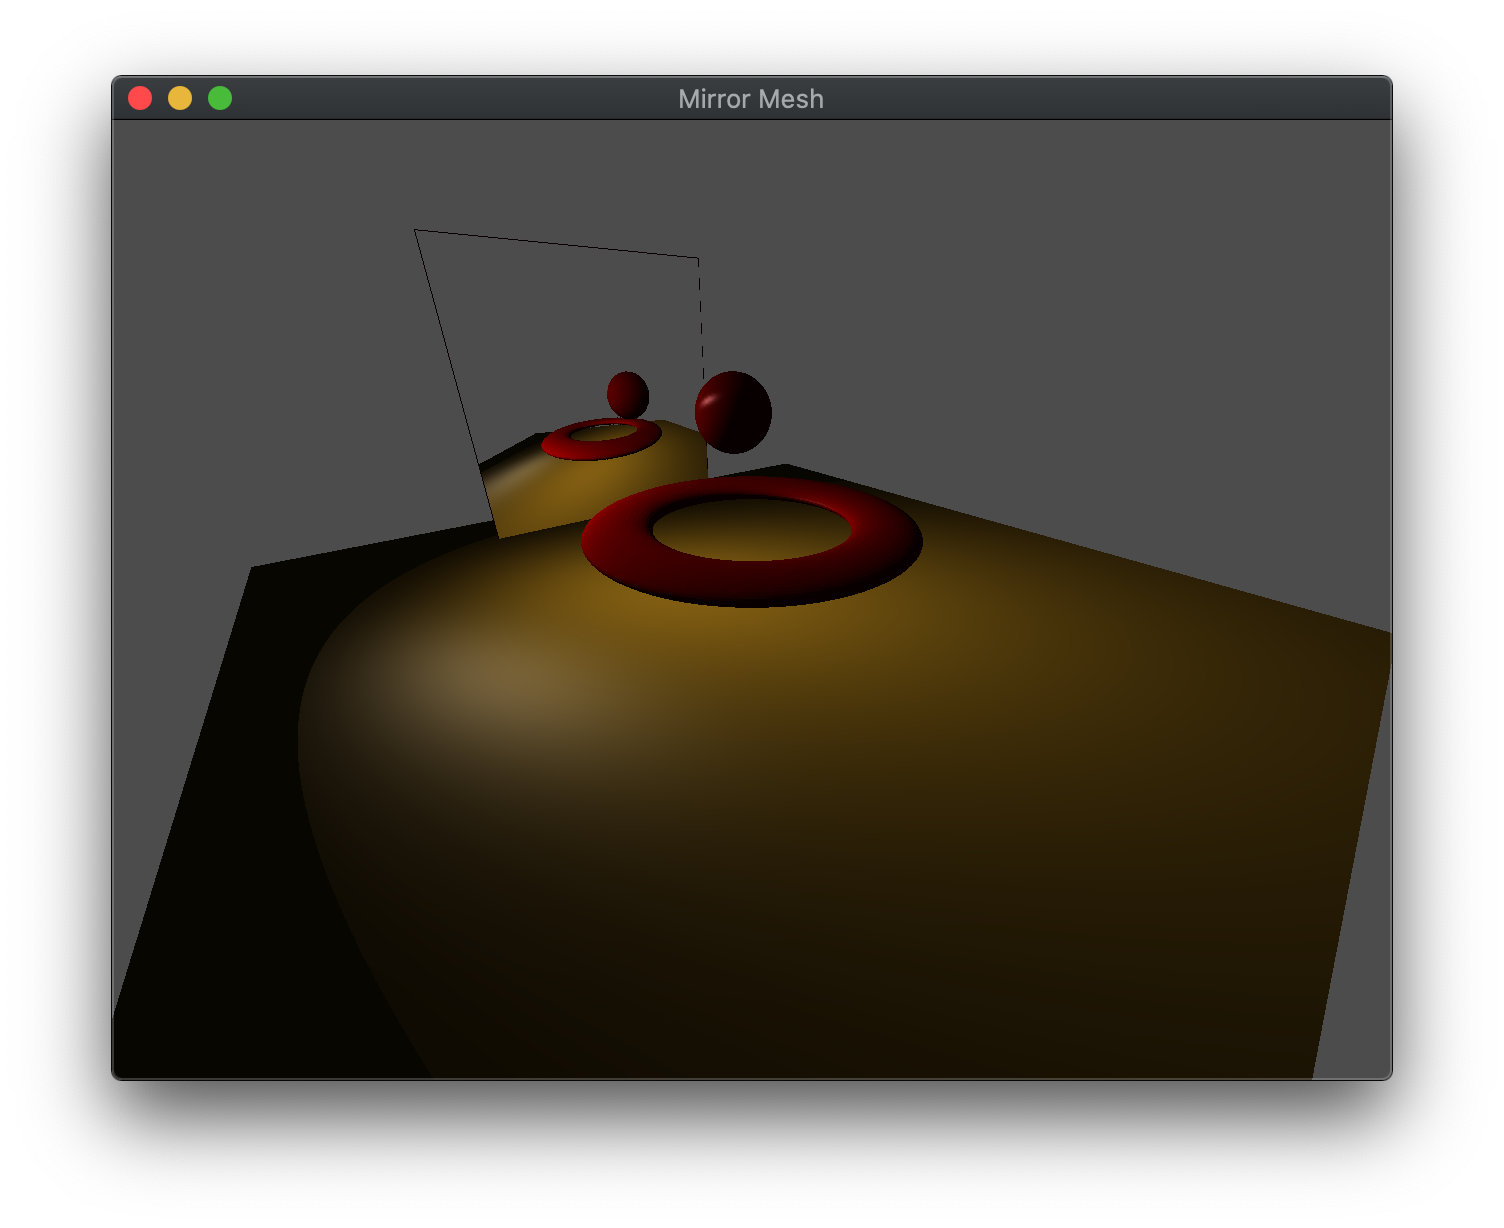
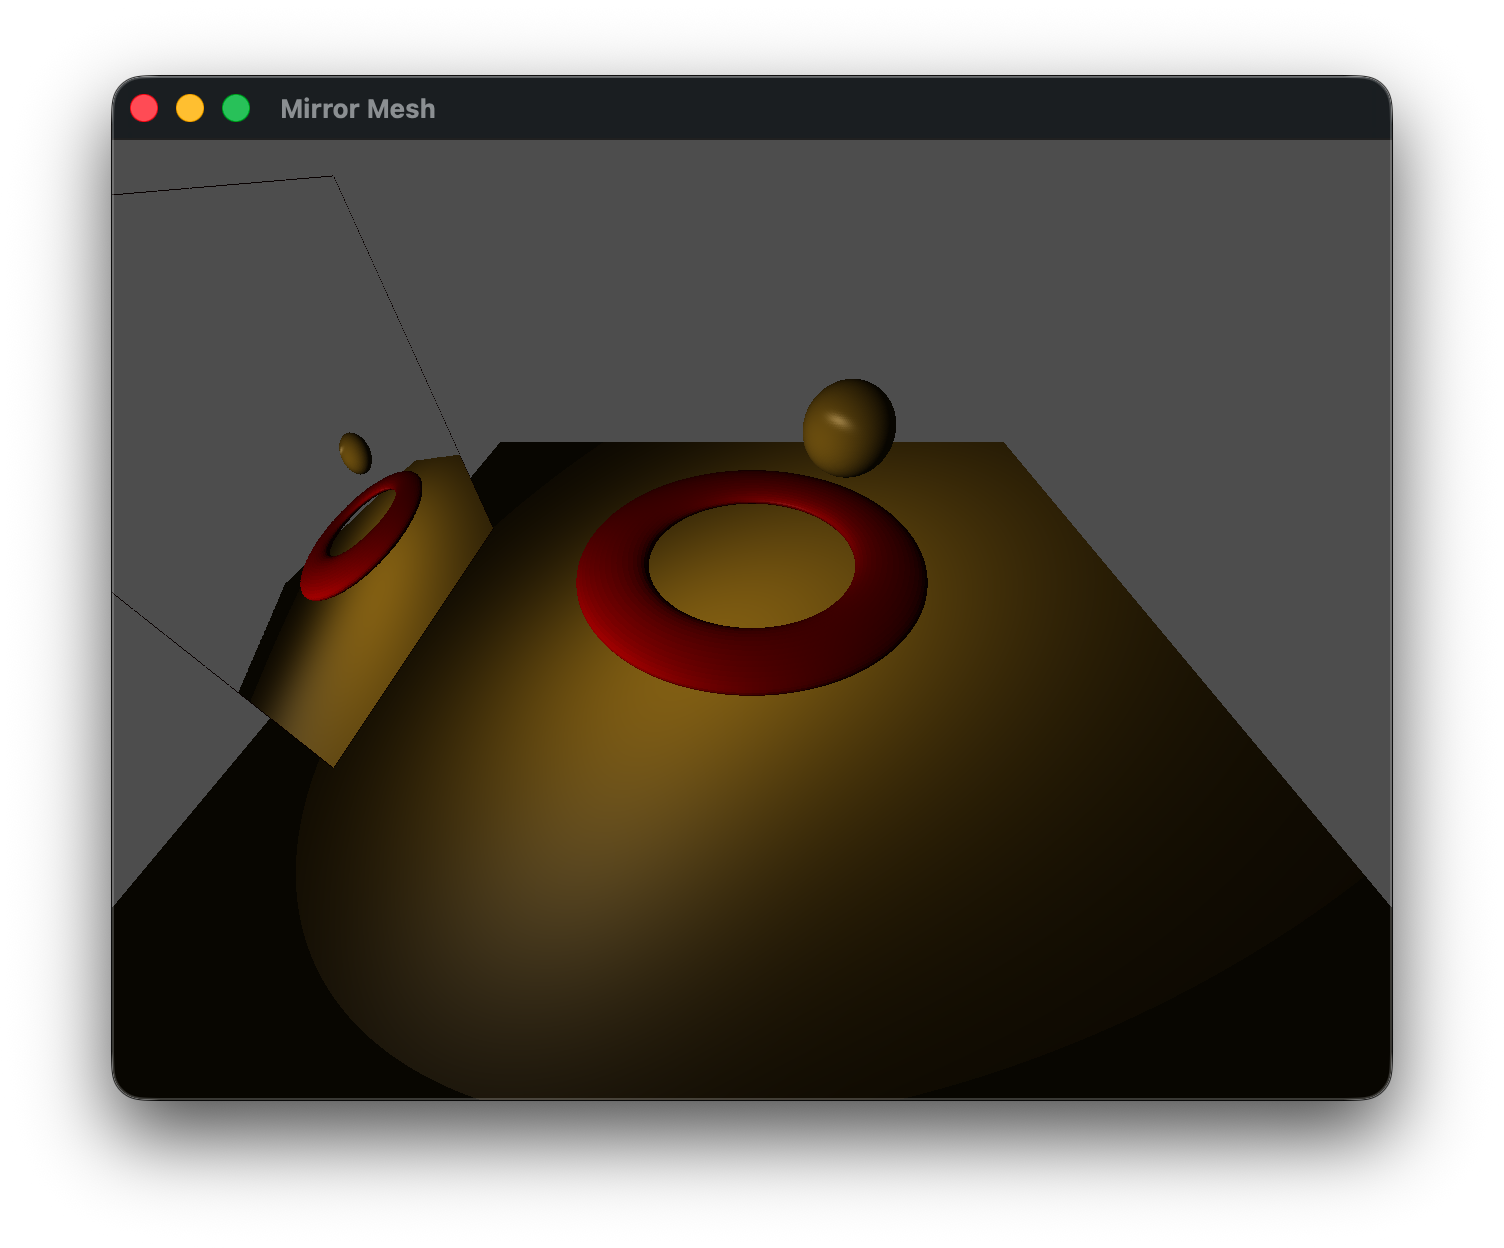
add lab16
add lab16

Changed region(s): [[0.0625, 0.2785, 0.9375, 0.8974], [0.0625, 0.0619, 0.9375, 0.1238], [0.0625, 0.6498, 0.125, 0.8046]]

diff --git a/labs/lab16.md b/labs/lab16.md
@@ -41,17 +41,19 @@ In order to store the image of the scene from the perspective of the mirror, we 
 
 ### Tasks
 
-- Add code in **mirror.cpp** to **build\_mirror\_tex()** to creates an empty mirror texture for the environment map (which is allocated and bound for the *m\_texid* parameter that is passed as *MirrorTex*) that is *ww* by *hh* using **glTexImage2D()**
+- Add code in **textures.h** to **build\_mirror()** to allocate an empty texture for the environment map that is *ww* by *hh* using **glTexImage2D()**
 
 ```cpp
     glTexImage2D(GL_TEXTURE_2D, 0, GL_RGBA, ww, hh, 0, GL_RGBA, GL_FLOAT, NULL);
 ```
 
-**Note:** When creating this texture, we did not build mipmaps as we will be loading the texture map dynamically each time we render the scene (thus it would be computationally expensive to continually regenerate mipmaps).
+> **Note:** When setting the filters for this texture, we did not build mipmaps as we will be loading the texture map dynamically each time we render the scene (thus it would be computationally expensive to continually regenerate mipmaps).
+
+- Add code in **textures.h** to **build\_textures()** to create the mirror texture using **build\_mirror()** passing the *MirrorTex* enum constant.
 
 ### Setting the mirror perspective
 
-We will create the effect of reflection by rendering the scene from the *point of view of the reflective object* and copy that image into the environment map. Therefore, the first thing we must do in the **render\_mirror\_tex( )** function is set an appropriate projection matrix using either **ortho( )** or **frustum( )**. The key here is to select extents that are representative of the reflective surface, i.e. usually with the near clipping plane at (or very near for a frustum) 0.0 which will be the object's surface, the far clipping plane set to capture the objects of interest, and the other extents to match the geometry of the object itself. Next we need to position the camera at the *center of the object* and point it *away from* the reflective surface. Depending on the desired effect, this direction can be either perpendicular to the surface or (more realistically) at an equal angle from the viewer (recall angle of incidence equals angle of reflection), see [How to calculate the reflection vector](https://www.fabrizioduroni.it/2017/08/25/how-to-calculate-reflection-vector/) for the math to compute this. Once the projection matrix and camera position are set appropriately, we simply render the scene *without* the reflective surface. This will create the "picture" of the scene from the point of view of the reflective surface in the framebuffer. However instead of using **glfwSwapBuffers( )** to display it on the screen, we will place the image *into a texture* using
+We will create the effect of reflection by rendering the scene from the *point of view of the reflective object* and copy that image into the environment map. Therefore, the first thing we must do in the **create\_mirror( )** function is set an appropriate projection matrix using either **ortho( )** or **frustum( )**. The key here is to select extents that are representative of the reflective surface, i.e. usually with the near clipping plane at (or very near for a frustum) 0.0 which will be the object's surface, the far clipping plane set to capture the objects of interest, and the other extents to match the geometry of the object itself. Next we need to position the camera at the *center of the mirror* and point it *away from* the reflective surface. Depending on the desired effect, this direction can be either perpendicular to the surface or (more realistically) at an equal angle from the viewer (recall angle of incidence equals angle of reflection), see [How to calculate the reflection vector](https://www.fabrizioduroni.it/2017/08/25/how-to-calculate-reflection-vector/) for the math to compute this. Once the projection matrix and camera position are set appropriately, we simply render the scene *without* the reflective surface. This will create the "picture" of the scene from the point of view of the reflective surface in the framebuffer. However instead of using **glfwSwapBuffers( )** to display it on the screen, we will *copy* the image *into a texture* using
 
 ```cpp
 glCopyTexImage2D(GL_TEXTURE_2D, level, format, x, y, w, h, border);
@@ -59,25 +61,25 @@ glCopyTexImage2D(GL_TEXTURE_2D, level, format, x, y, w, h, border);
 
 where *level* indicates the mipmap level to store the image into (which we will use level 0 for the environment map), *format* is the format to store the image in (usually **GL\_RGBA**), *x* and *y* are the initial lower-left *raster coordinates* of the framebuffer, *w* and *h* are the width and height of the image to capture, and *border* specifies a border width for the image.
 
-**Note:** **glCopyTexImage2D( )** copies the framebuffer into the *currently selected* texture map, so be careful to avoid overwritting a pre-existing object texture.
+**Note:** **glCopyTexImage2D( )** copies the framebuffer into the *currently selected* texture map, so be careful that the environment map texture is bound to avoid overwritting a pre-existing object texture.
 
-Also since the environment takes the image from the framebuffer, any effects used in rendering the scene, e.g. lighting and texture mapping, will appear in the reflection.
+Since the environment takes the image directly from the framebuffer, any effects used in rendering the scene, e.g. lighting and texture mapping, will appear in the reflection.
 
 ### Tasks
 
-- Add code in **mirror.cpp** to **render\_mirror\_tex( )** to set the *proj\_matrix* to a **frustum** with extents (-0.2,0.2,-0.2,0.2,0.2,100.0).
+- Add code in **mirrorMesh.cpp** to **create\_mirror( )** to set the *proj\_matrix* to a **frustum** with extents (-0.2,0.2,-0.2,0.2,0.2,100.0).
 
-- Add code in **mirror.cpp** to **render\_mirror\_tex( )** to set the *camera\_matrix* for the mirror camera position using **lookat** with *mirror_eye*, *mirror_center*, *mirror_up* as the vectors. **Note:** we will use *mirror_eye* as the translation transformation when we render the mirror.
+- Add code in **mirrorMesh.cpp** to **create\_mirror( )** to set the *camera\_matrix* for the mirror camera position using **lookat()** with *mirror_eye*, *mirror_center*, *mirror_up* as the vectors. **Note:** we will use *mirror_eye* as the translation transformation when we render the mirror.
 
-- Add code in **mirror.cpp** to **render\_mirror\_tex( )** after the scene has been rendered to activate **GL_TEXTURE0** using **glActiveTexture()**.
+- Add code in **mirrorMesh.cpp** to **create\_mirror( )** after the scene has been rendered to activate **GL_TEXTURE0** using **glActiveTexture()**.
 
-- Add code in **mirror.cpp** to **render\_mirror\_tex( )** to bind the *m\_texid* element of the *TextureIDs[]* array which will be the texture where the environment map is stored (i.e. the one created in the previous section).
+- Add code in **mirrorMesh.cpp** to **create\_mirror( )** to bind the *m_texid* element of the *TextureIDs[]* array which will be the texture where the environment map is stored (i.e. the one created in the previous section).
 
-- Add code in **mirror.cpp** to **render\_mirror\_tex( )** to copy the framebuffer to the bound environment map using **glCopyTexImage2D()** into level 0, using **GL_RGBA** format, starting at (0,0), of size (ww,hh), and with 0 border.
+- Add code in **mirrorMesh.cpp** to **create\_mirror( )** to copy the framebuffer to the bound environment map using **glCopyTexImage2D()** into level 0, using **GL_RGBA** format, starting at (0,0), of size (ww,hh), and with 0 border.
 
-- Add code to **main()** in the rendering loop to call **render\_mirror\_tex()** *before* rendering the actual scene with **display()**. Pass the *MirrorTex* index of the *TextureIDs[]* array which is the reference to the environment map.
+- Add code in **mirrorMesh.cpp** to **main()** in the rendering loop to call **create\_mirror()** *before* rendering the actual scene with **display()**. Pass the *MirrorTex* enum constant for the environment map.
 
-**Note:** To help with mirror positioning and extents, uncomment the **renderQuad()** function and comment out **display()** to render the environment map to the screen until it appears the way you would like.
+**Note:** To help with mirror positioning and extents, uncomment the **displayTex()** function and comment out **display()** to render the environment map to the screen (i.e. what will be textured onto the mirror) until it appears the way you would like.
 
 ## Rendering the Scene with Mirror
 
@@ -85,17 +87,17 @@ Once the map is created, we simply render the scene as usual (using **render\_sc
 
 ### Tasks
 
-- Add code in **render.cpp** to **render\_scene()** to compute *trans\_matrix* as a translation by *mirror\_eye*, i.e. place the mirror at the same spot that the mirror camera was located to generate the environment map. **Hint:** You can use the vector version of **translate()** rather than separate out the individual components.
+- Add code in **mirrorMesh.cpp** to **render\_scene()** to compute *trans\_matrix* as a translation by *mirror\_eye*, i.e. place the mirror at the same spot that the mirror camera was located to generate the environment map. **Hint:** You can use the vector version of **translate()** rather than separate out the individual components.
 
-- Add code in **render.cpp** to **render\_scene()** to compute *rot\_matrix* as a rotation by -90 degrees about the x-axis (so that the mirror is vertical in the scene).
+- Add code in **mirrorMesh.cpp** to **render\_scene()** to compute *rot\_matrix* as a rotation by -90 degrees about the x-axis (so that the mirror is vertical in the scene).
 
-- Add code in **render.cpp** to **render\_scene()** to compute *scale\_matrix* as a scaling by 2.0 along each axis.
+- Add code in **mirrorMesh.cpp** to **render\_scene()** to compute *scale\_matrix* as a scaling by 2.0 along the x and z axes (**note:** the y axis should be unchanged).
 
-- Add code in **render.cpp** to **render\_scene()** to compute *model\_matrix* as the product of the translation, rotation, and scaling matrices.
+- Add code in **mirrorMesh.cpp** to **render\_scene()** to compute *model\_matrix* as the product of the translation, rotation, and scaling matrices.
 
-- Add code in **render.cpp** to **render\_scene()** to draw the mirror using **drawTextureObject()** with the *plane* object and the *MirrorTex* index of the *TextureIDs[]* array.
+- Add code in **mirrorMesh.cpp** to **render\_scene()** to draw the mirror using **draw\_tex\_object()** with the *Mirror* object and the *MirrorTex* enum constant.
 
-**Note:** No new shader code was required as it simply is rendering the scene normally from two different perspectives.
+**Note:** No new shader code was required as it simply is rendering the scene normally from two different perspectives. Also, a wireframe object the same size as the mirror was drawn using a **GL\_LINE\_LOOP** to indicate the position of the mirror in the scene. Finally, since we are culling back faces, note that if you go behind the mirror you *do not* see the reflection (but can see through the mirror).
 
 ## Compiling and running the program
 

diff --git a/labs/lab17.md b/labs/lab17.md
@@ -101,7 +101,7 @@ Several options can include simple addition of the two colors, simple multiplica
 
 ### Tasks
 
-- Add code in **drawObjects.h** to **draw\_multi\_tex\_object()** to set the *multi\_tex\_mix\_loc* to *mix* using **glUniform1f()** (since this is a floating point value).
+- Add code in **drawObjects.h** to **draw\_multi\_tex\_object()** to set the *multi\_tex\_mix\_loc* to the *mix* parameter variable using **glUniform1f()** (since this is a floating point value).
 
 - Add code to **multiTex.frag** to sample *blendMap* at *texCoord* and store the result in *blendColor*
 
@@ -122,10 +122,10 @@ Several options can include simple addition of the two colors, simple multiplica
 Finally, to render an object with multi-texturing, we can use the **draw\_multi\_tex\_object()** function
 
 ```cpp
-void draw_mulit_tex_object(GLuint obj, GLuint baseID, GLuint blendID, GLfloat mix);
+void draw_multi_tex_object(GLuint obj, GLuint baseID, GLuint blendID, GLfloat mix);
 ```
 
-where *obj* is the enum constant for the object to render, **baseID** is the base texture enum constant **blendID** is the second texture enum constant, and **mix** is a floating point value to determine the proportion of each texture to use (we are using the linear interpolation **mix()** shader function).
+where *obj* is the enum constant for the object to render, **baseID** is the base texture enum constant **blendID** is the second texture enum constant, and **mix** is a floating point value to determine the proportion of each texture to use (we are using the linear interpolation **mix()** shader function with this value).
 
 ### Tasks
 
